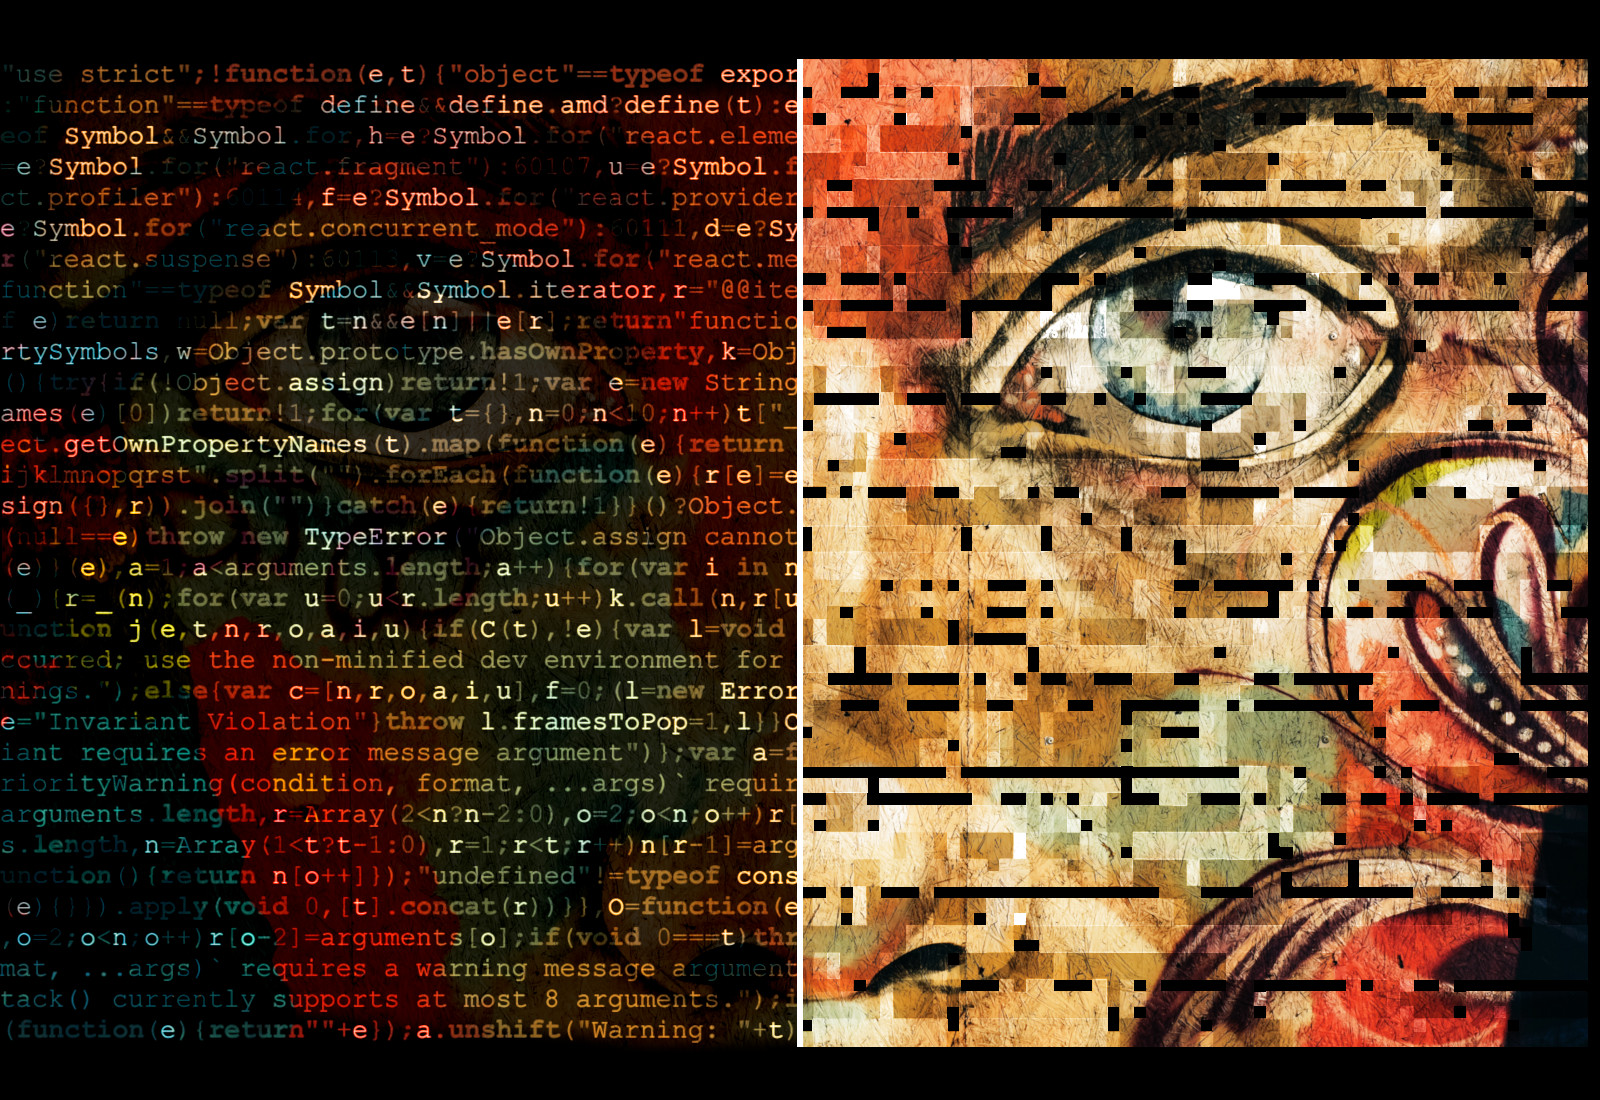
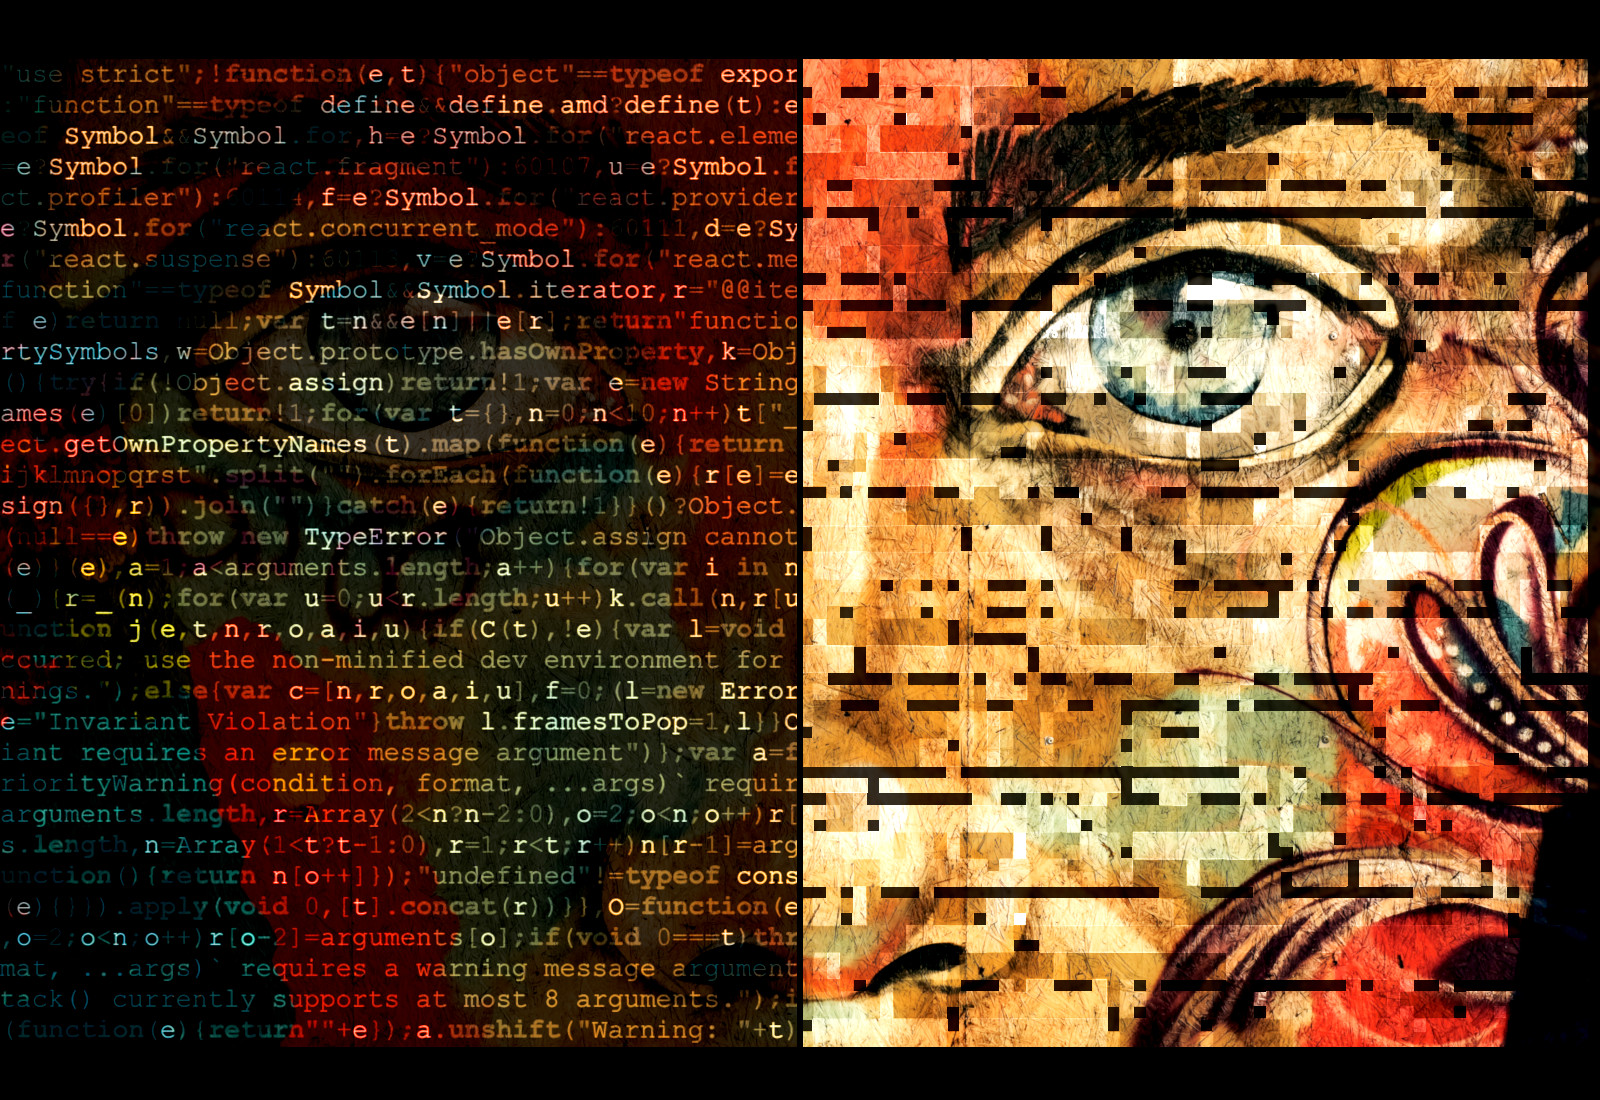
update landing

diff --git a/pages/index.js b/pages/index.js
@@ -21,7 +21,8 @@ const styles = theme => ({
     backgroundSize: "auto 100%",
     backgroundRepeat: "no-repeat",
     backgroundColor: "black",
-    backgroundPosition: "50%"
+    backgroundPosition: "50% 0",
+    backgroundAttachment: "fixed"
   },
   title: {
     color: theme.palette.primary.main
